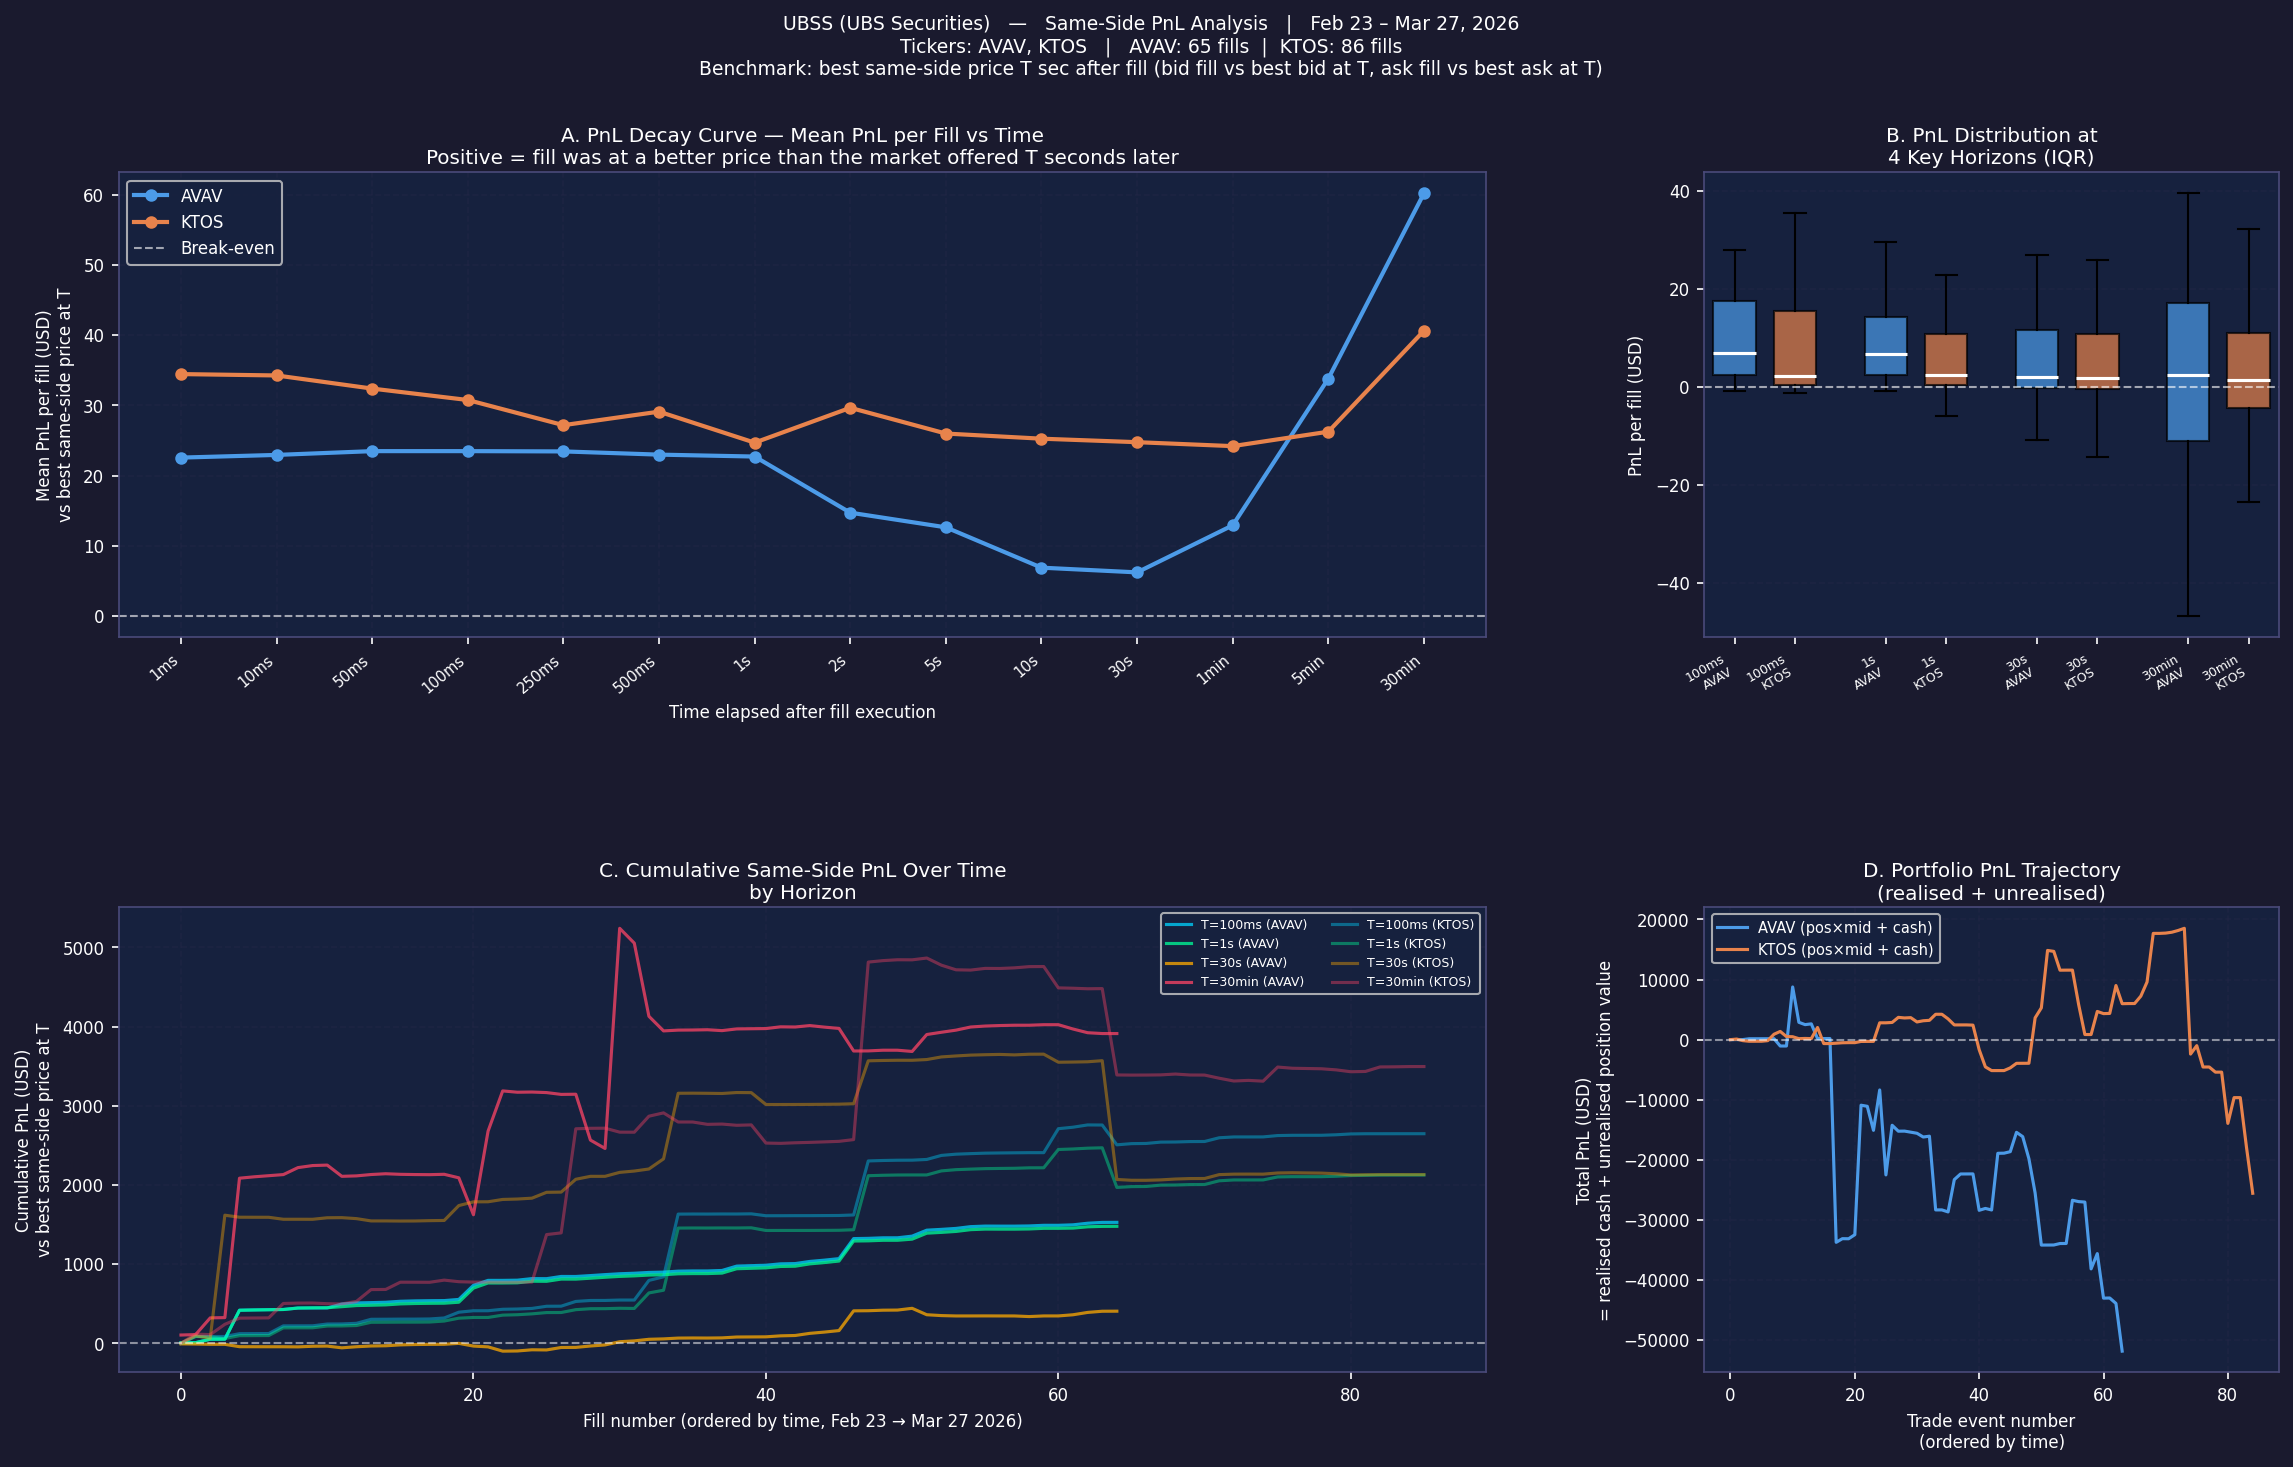
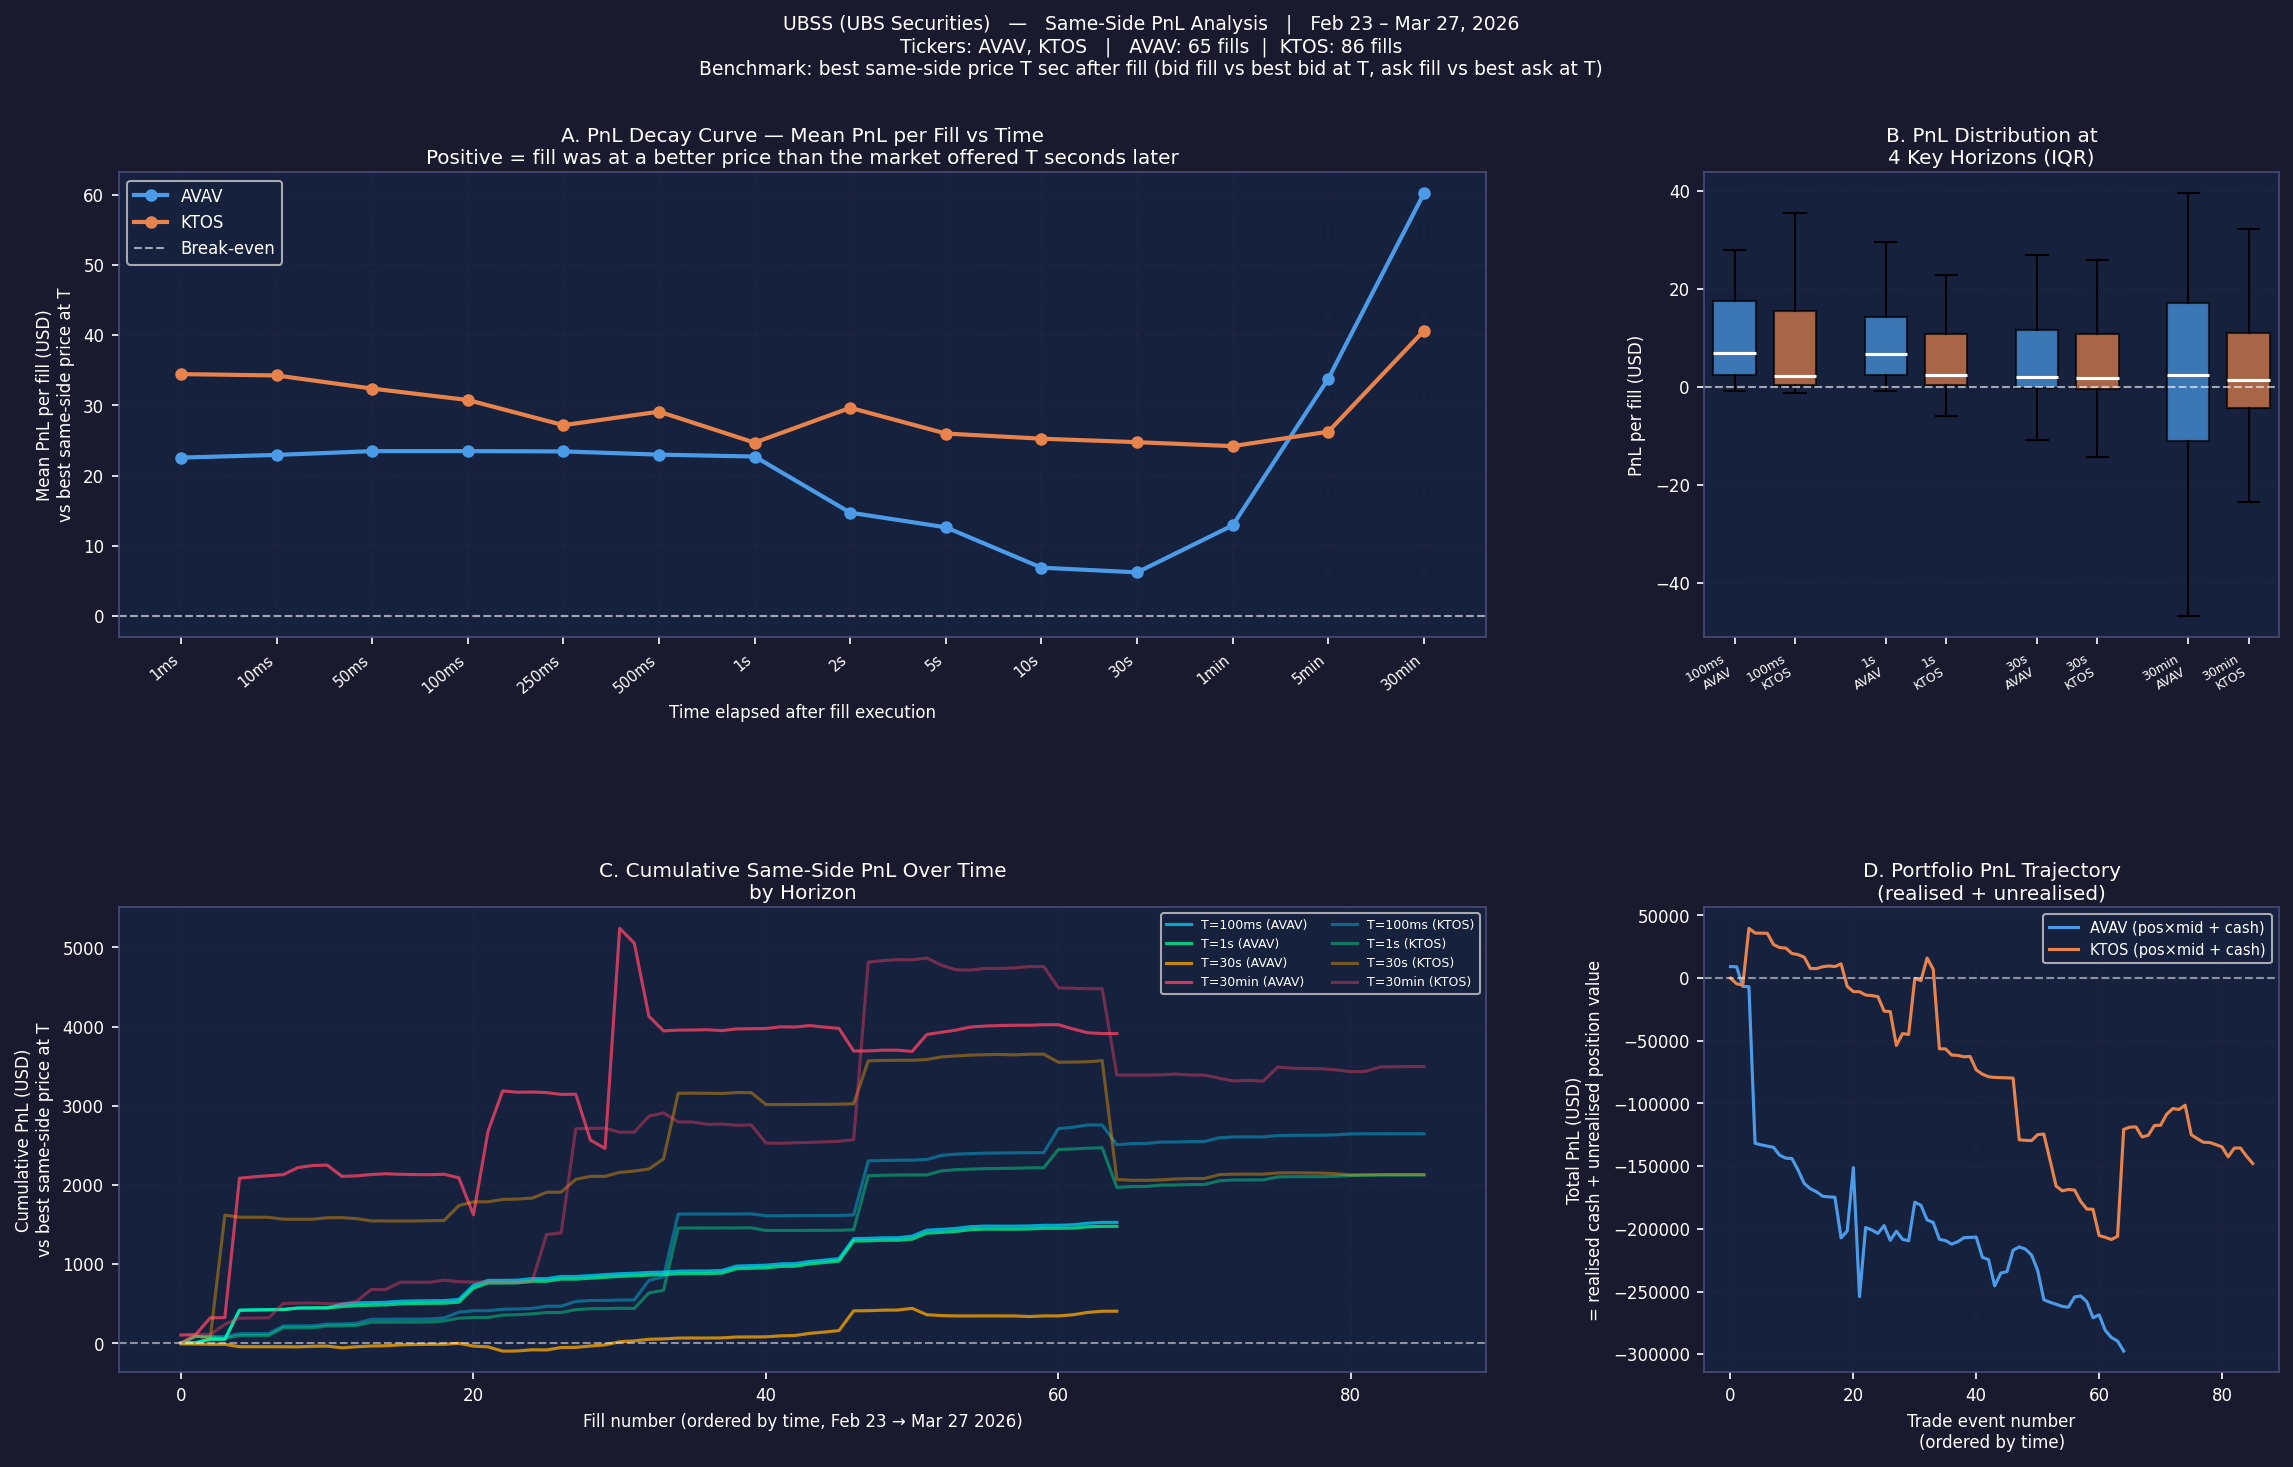
Fix portfolio simulation: correct unrealized PnL and allow short selling
Two bugs in the portfolio simulation:

1. Unrealized PnL was calculated as pos * mid (gross market value of
   shares), not pos * (mid - avg_cost) (actual gain/loss). Fixed by
   tracking volume-weighted average cost and marking the position at
   (mid - avg_cost).

2. Sells were gated on pos >= sz, silently dropping all short-side
   executions when the simulated inventory was below the sell size.
   For a market maker starting from 0 shares, this discarded virtually
   all ask fills, leaving an unhedged long accumulation that bled out
   on unrealized losses while the same-side PnL showed profits. Fixed
   by removing the guard and allowing the position to go negative
   (short), with avg_cost updated symmetrically for short extensions.

Changed region(s): [[0.6812, 0.6135, 0.9908, 0.9202], [0.7741, 0.7362, 0.9289, 0.9202], [0.9599, 0.7362, 0.9908, 0.7975]]

diff --git a/analysis_final.py b/analysis_final.py
@@ -233,7 +233,7 @@ for firm in fills_df["firm"].unique() if len(fills_df) else []:
     firm_fills = fills_df[fills_df.firm == firm].sort_values(["date","t_sub"])
     port = {}
     for ticker, grp in firm_fills.groupby("ticker"):
-        pos, cash = 0, 0.0
+        pos, cash, avg_cost = 0, 0.0, 0.0
         events = []
         for r in grp.itertuples(index=False):
             sz  = int(r.sub_size)
@@ -241,12 +241,22 @@ for firm in fills_df["firm"].unique() if len(fills_df) else []:
             t   = float(r.t_sub)
             mid = mid_at(r.ticker, r.date, t)
             if r.dir_str == "bid":
-                pos += sz; cash -= sz * p
-            elif r.dir_str == "ask" and pos >= sz:
-                pos -= sz; cash += sz * p
-            else:
-                continue
-            unreal = pos * mid if not np.isnan(mid) else 0.0
+                # Update avg cost only when adding to a long (or opening from flat/short)
+                if pos >= 0:
+                    avg_cost = (avg_cost * pos + sz * p) / (pos + sz)
+                pos  += sz
+                cash -= sz * p
+            else:  # ask — allow short selling; no pos >= sz guard
+                if pos <= 0:
+                    # Opening/extending a short: track avg short price as avg_cost
+                    avg_cost = (avg_cost * abs(pos) + sz * p) / (abs(pos) + sz)
+                pos  -= sz
+                cash += sz * p
+            # unrealized PnL = position × (mid − avg_cost)
+            # Works for longs (pos > 0) and shorts (pos < 0) symmetrically:
+            #   long:  gain when mid rises above avg_cost
+            #   short: gain when mid falls below avg_cost  (pos negative, mid-avg_cost negative → positive)
+            unreal = pos * (mid - avg_cost) if not np.isnan(mid) else 0.0
             events.append({"date": r.date, "t": t, "pos": pos,
                            "cash": cash, "pnl": cash + unreal})
         if events: